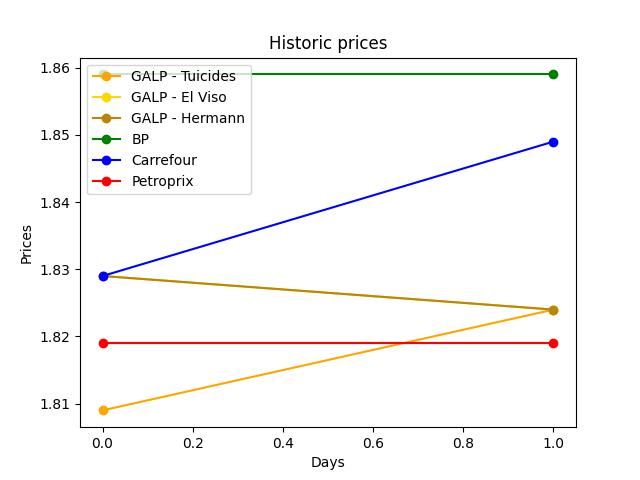
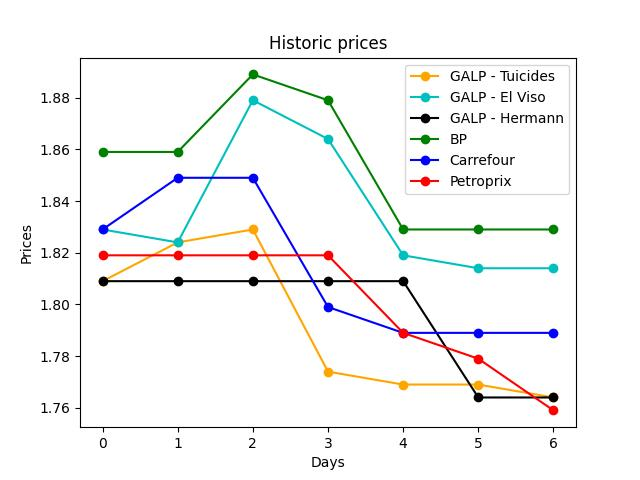
Update and add more scripts and add the cronjobs

diff --git a/download_data.py b/download_data.py
@@ -10,7 +10,8 @@ URL = f"https://sedeaplicaciones.minetur.gob.es/ServiciosRESTCarburantes/Precios
 
 urllib.request.urlretrieve(URL, "Data/gasoline.txt")
 
-file = open("Data/gasoline.txt", encoding="mbcs")
+file = open("Data/gasoline.txt", encoding="utf-8")
+#encoding="mcbs" if running on windows
 
 list_of_prices = file.read().split("{")
 
@@ -26,6 +27,7 @@ for x in list_of_prices[2:]:
             .replace("Ã³", "o")\
             .replace("Ã¡","a")\
             .replace("","")\
+            .replace("ó","o")\
             .replace("Ã","A")\
             .split("}],")[0]\
             .split(",")

diff --git a/graphic_of_historic_prices.py b/graphic_of_historic_prices.py
@@ -26,8 +26,8 @@ def plot_line_chart():
     fig, ax = plt.subplots()
 
     ax.plot(galp_tuicides, "orange", marker='o', label="GALP - Tuicides")
-    ax.plot(galp_viso, "gold", marker='o', label="GALP - El Viso")
-    ax.plot(galp_viso, "darkgoldenrod", marker='o', label="GALP - Hermann")
+    ax.plot(galp_viso, "c", marker='o', label="GALP - El Viso")
+    ax.plot(galp_hermann, "black", marker='o', label="GALP - Hermann")
     ax.plot(bp, "g",  marker='o', label="BP")
     ax.plot(carrefour, "b",  marker='o', label="Carrefour")
     ax.plot(petroprix, "r",  marker='o', label="Petroprix")
